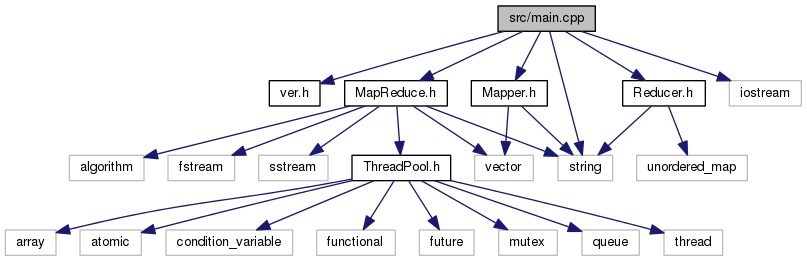
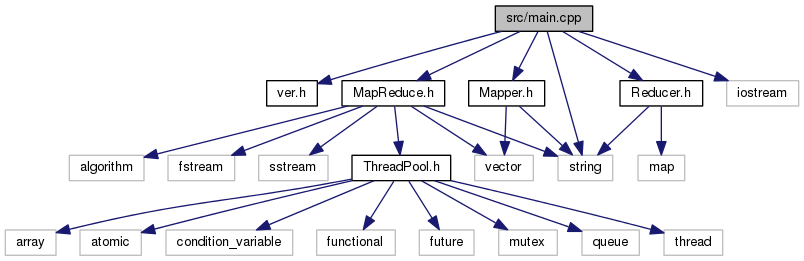
Deploy PetrLjutik/yamr to github.com/PetrLjutik/yamr.git:gh-pages

diff --git a/ThreadPool_8h_source.html b/ThreadPool_8h_source.html
@@ -144,47 +144,48 @@ var searchBox = new SearchBox("searchBox", "search",false,'Поиск');
 <div class="line"><a name="l00063"></a><span class="lineno">   63</span>&#160;        <span class="keywordflow">if</span>(it.joinable())</div>
 <div class="line"><a name="l00064"></a><span class="lineno">   64</span>&#160;          it.join();</div>
 <div class="line"><a name="l00065"></a><span class="lineno">   65</span>&#160;      }</div>
-<div class="line"><a name="l00066"></a><span class="lineno">   66</span>&#160;    }</div>
-<div class="line"><a name="l00067"></a><span class="lineno">   67</span>&#160;</div>
-<div class="line"><a name="l00076"></a><span class="lineno">   76</span>&#160;    <span class="keyword">template</span>&lt;<span class="keyword">typename</span> F, <span class="keyword">typename</span>...Args&gt;</div>
-<div class="line"><a name="l00077"></a><span class="lineno"><a class="line" href="classmr_1_1ThreadPool.html#a6efde29777ef95f35724076fd721c10a">   77</a></span>&#160;    <span class="keyword">auto</span> <a class="code" href="classmr_1_1ThreadPool.html#a6efde29777ef95f35724076fd721c10a">add_job</a>(F&amp;&amp; f, Args&amp;&amp;... args) -&gt; std::future&lt;decltype(f(args...))&gt; {</div>
-<div class="line"><a name="l00078"></a><span class="lineno">   78</span>&#160;      std::unique_lock&lt;std::mutex&gt; lock(job_mutex_);</div>
-<div class="line"><a name="l00079"></a><span class="lineno">   79</span>&#160;</div>
-<div class="line"><a name="l00080"></a><span class="lineno">   80</span>&#160;      std::function&lt;decltype(f(args...))()&gt; func = std::bind(std::forward&lt;F&gt;(f),</div>
-<div class="line"><a name="l00081"></a><span class="lineno">   81</span>&#160;                                                             std::forward&lt;Args&gt;(args)...);</div>
-<div class="line"><a name="l00082"></a><span class="lineno">   82</span>&#160;</div>
-<div class="line"><a name="l00083"></a><span class="lineno">   83</span>&#160;      <span class="keyword">auto</span> func_ptr = std::make_shared&lt;std::packaged_task&lt;decltype(f(args...))()&gt;&gt;(func);</div>
-<div class="line"><a name="l00084"></a><span class="lineno">   84</span>&#160;      std::function&lt;void()&gt; wrappered_func = [func_ptr]() { (*func_ptr)(); };</div>
-<div class="line"><a name="l00085"></a><span class="lineno">   85</span>&#160;      jobs_.push(wrappered_func);</div>
-<div class="line"><a name="l00086"></a><span class="lineno">   86</span>&#160;</div>
-<div class="line"><a name="l00087"></a><span class="lineno">   87</span>&#160;      job_avail_.notify_one();</div>
-<div class="line"><a name="l00088"></a><span class="lineno">   88</span>&#160;</div>
-<div class="line"><a name="l00089"></a><span class="lineno">   89</span>&#160;      <span class="keywordflow">return</span> func_ptr-&gt;get_future();</div>
-<div class="line"><a name="l00090"></a><span class="lineno">   90</span>&#160;    }</div>
-<div class="line"><a name="l00091"></a><span class="lineno">   91</span>&#160;</div>
-<div class="line"><a name="l00096"></a><span class="lineno"><a class="line" href="classmr_1_1ThreadPool.html#ac404580ac853b572438f754c7c6a58a9">   96</a></span>&#160;    <span class="keywordtype">unsigned</span> <span class="keywordtype">char</span> <a class="code" href="classmr_1_1ThreadPool.html#ac404580ac853b572438f754c7c6a58a9">get_job_id</a>() {</div>
-<div class="line"><a name="l00097"></a><span class="lineno">   97</span>&#160;      <span class="keywordflow">return</span> job_id_;</div>
-<div class="line"><a name="l00098"></a><span class="lineno">   98</span>&#160;    }</div>
-<div class="line"><a name="l00099"></a><span class="lineno">   99</span>&#160;</div>
-<div class="line"><a name="l00100"></a><span class="lineno">  100</span>&#160;  <span class="keyword">private</span>:</div>
-<div class="line"><a name="l00101"></a><span class="lineno">  101</span>&#160;</div>
-<div class="line"><a name="l00102"></a><span class="lineno">  102</span>&#160;    std::atomic_bool                  stop_{};</div>
-<div class="line"><a name="l00103"></a><span class="lineno">  103</span>&#160;    std::atomic_uchar                 job_id_{};</div>
-<div class="line"><a name="l00104"></a><span class="lineno">  104</span>&#160;    std::mutex                        job_mutex_{};</div>
-<div class="line"><a name="l00105"></a><span class="lineno">  105</span>&#160;    std::condition_variable           job_avail_{};</div>
-<div class="line"><a name="l00106"></a><span class="lineno">  106</span>&#160;    std::queue&lt;std::function&lt;void()&gt;&gt; jobs_{};</div>
-<div class="line"><a name="l00107"></a><span class="lineno">  107</span>&#160;    std::vector&lt;std::thread&gt;          threads_{};</div>
-<div class="line"><a name="l00108"></a><span class="lineno">  108</span>&#160;};</div>
-<div class="line"><a name="l00109"></a><span class="lineno">  109</span>&#160;</div>
-<div class="line"><a name="l00110"></a><span class="lineno">  110</span>&#160;} <span class="comment">// namespace mr.</span></div>
-<div class="line"><a name="l00111"></a><span class="lineno">  111</span>&#160;</div>
+<div class="line"><a name="l00066"></a><span class="lineno">   66</span>&#160;      threads_.clear();</div>
+<div class="line"><a name="l00067"></a><span class="lineno">   67</span>&#160;    }</div>
+<div class="line"><a name="l00068"></a><span class="lineno">   68</span>&#160;</div>
+<div class="line"><a name="l00077"></a><span class="lineno">   77</span>&#160;    <span class="keyword">template</span>&lt;<span class="keyword">typename</span> F, <span class="keyword">typename</span>...Args&gt;</div>
+<div class="line"><a name="l00078"></a><span class="lineno"><a class="line" href="classmr_1_1ThreadPool.html#a6efde29777ef95f35724076fd721c10a">   78</a></span>&#160;    <span class="keyword">auto</span> <a class="code" href="classmr_1_1ThreadPool.html#a6efde29777ef95f35724076fd721c10a">add_job</a>(F&amp;&amp; f, Args&amp;&amp;... args) -&gt; std::future&lt;decltype(f(args...))&gt; {</div>
+<div class="line"><a name="l00079"></a><span class="lineno">   79</span>&#160;      std::unique_lock&lt;std::mutex&gt; lock(job_mutex_);</div>
+<div class="line"><a name="l00080"></a><span class="lineno">   80</span>&#160;</div>
+<div class="line"><a name="l00081"></a><span class="lineno">   81</span>&#160;      std::function&lt;decltype(f(args...))()&gt; func = std::bind(std::forward&lt;F&gt;(f),</div>
+<div class="line"><a name="l00082"></a><span class="lineno">   82</span>&#160;                                                             std::forward&lt;Args&gt;(args)...);</div>
+<div class="line"><a name="l00083"></a><span class="lineno">   83</span>&#160;</div>
+<div class="line"><a name="l00084"></a><span class="lineno">   84</span>&#160;      <span class="keyword">auto</span> func_ptr = std::make_shared&lt;std::packaged_task&lt;decltype(f(args...))()&gt;&gt;(func);</div>
+<div class="line"><a name="l00085"></a><span class="lineno">   85</span>&#160;      std::function&lt;void()&gt; wrappered_func = [func_ptr]() { (*func_ptr)(); };</div>
+<div class="line"><a name="l00086"></a><span class="lineno">   86</span>&#160;      jobs_.push(wrappered_func);</div>
+<div class="line"><a name="l00087"></a><span class="lineno">   87</span>&#160;</div>
+<div class="line"><a name="l00088"></a><span class="lineno">   88</span>&#160;      job_avail_.notify_one();</div>
+<div class="line"><a name="l00089"></a><span class="lineno">   89</span>&#160;</div>
+<div class="line"><a name="l00090"></a><span class="lineno">   90</span>&#160;      <span class="keywordflow">return</span> func_ptr-&gt;get_future();</div>
+<div class="line"><a name="l00091"></a><span class="lineno">   91</span>&#160;    }</div>
+<div class="line"><a name="l00092"></a><span class="lineno">   92</span>&#160;</div>
+<div class="line"><a name="l00097"></a><span class="lineno"><a class="line" href="classmr_1_1ThreadPool.html#ac404580ac853b572438f754c7c6a58a9">   97</a></span>&#160;    <span class="keywordtype">unsigned</span> <span class="keywordtype">char</span> <a class="code" href="classmr_1_1ThreadPool.html#ac404580ac853b572438f754c7c6a58a9">get_job_id</a>() {</div>
+<div class="line"><a name="l00098"></a><span class="lineno">   98</span>&#160;      <span class="keywordflow">return</span> job_id_;</div>
+<div class="line"><a name="l00099"></a><span class="lineno">   99</span>&#160;    }</div>
+<div class="line"><a name="l00100"></a><span class="lineno">  100</span>&#160;</div>
+<div class="line"><a name="l00101"></a><span class="lineno">  101</span>&#160;  <span class="keyword">private</span>:</div>
+<div class="line"><a name="l00102"></a><span class="lineno">  102</span>&#160;</div>
+<div class="line"><a name="l00103"></a><span class="lineno">  103</span>&#160;    std::atomic_bool                  stop_{};</div>
+<div class="line"><a name="l00104"></a><span class="lineno">  104</span>&#160;    std::atomic_uchar                 job_id_{};</div>
+<div class="line"><a name="l00105"></a><span class="lineno">  105</span>&#160;    std::mutex                        job_mutex_{};</div>
+<div class="line"><a name="l00106"></a><span class="lineno">  106</span>&#160;    std::condition_variable           job_avail_{};</div>
+<div class="line"><a name="l00107"></a><span class="lineno">  107</span>&#160;    std::queue&lt;std::function&lt;void()&gt;&gt; jobs_{};</div>
+<div class="line"><a name="l00108"></a><span class="lineno">  108</span>&#160;    std::vector&lt;std::thread&gt;          threads_{};</div>
+<div class="line"><a name="l00109"></a><span class="lineno">  109</span>&#160;};</div>
+<div class="line"><a name="l00110"></a><span class="lineno">  110</span>&#160;</div>
+<div class="line"><a name="l00111"></a><span class="lineno">  111</span>&#160;} <span class="comment">// namespace mr.</span></div>
+<div class="line"><a name="l00112"></a><span class="lineno">  112</span>&#160;</div>
 <div class="ttc" id="classmr_1_1ThreadPool_html_a6fd1c2bd05ec4195fda59f0164e96eb4"><div class="ttname"><a href="classmr_1_1ThreadPool.html#a6fd1c2bd05ec4195fda59f0164e96eb4">mr::ThreadPool::~ThreadPool</a></div><div class="ttdeci">~ThreadPool()=default</div></div>
 <div class="ttc" id="classmr_1_1ThreadPool_html_a4d4ec3ed3bba94349861412587bca511"><div class="ttname"><a href="classmr_1_1ThreadPool.html#a4d4ec3ed3bba94349861412587bca511">mr::ThreadPool::stop</a></div><div class="ttdeci">void stop()</div><div class="ttdoc">Завершение работы всех потоков пула. </div><div class="ttdef"><b>Definition:</b> ThreadPool.h:56</div></div>
 <div class="ttc" id="classmr_1_1ThreadPool_html"><div class="ttname"><a href="classmr_1_1ThreadPool.html">mr::ThreadPool</a></div><div class="ttdoc">Шаблон пула потоков. </div><div class="ttdef"><b>Definition:</b> ThreadPool.h:17</div></div>
 <div class="ttc" id="classmr_1_1ThreadPool_html_a081def6dcf1be3130d8a079a5b608da2"><div class="ttname"><a href="classmr_1_1ThreadPool.html#a081def6dcf1be3130d8a079a5b608da2">mr::ThreadPool::operator=</a></div><div class="ttdeci">ThreadPool &amp; operator=(const ThreadPool &amp;)=delete</div></div>
-<div class="ttc" id="classmr_1_1ThreadPool_html_ac404580ac853b572438f754c7c6a58a9"><div class="ttname"><a href="classmr_1_1ThreadPool.html#ac404580ac853b572438f754c7c6a58a9">mr::ThreadPool::get_job_id</a></div><div class="ttdeci">unsigned char get_job_id()</div><div class="ttdoc">Дать id текущей выполняемой задачи. </div><div class="ttdef"><b>Definition:</b> ThreadPool.h:96</div></div>
+<div class="ttc" id="classmr_1_1ThreadPool_html_ac404580ac853b572438f754c7c6a58a9"><div class="ttname"><a href="classmr_1_1ThreadPool.html#ac404580ac853b572438f754c7c6a58a9">mr::ThreadPool::get_job_id</a></div><div class="ttdeci">unsigned char get_job_id()</div><div class="ttdoc">Дать id текущей выполняемой задачи. </div><div class="ttdef"><b>Definition:</b> ThreadPool.h:97</div></div>
 <div class="ttc" id="classmr_1_1ThreadPool_html_aa71ab0d7a2d09f33372c53f310885486"><div class="ttname"><a href="classmr_1_1ThreadPool.html#aa71ab0d7a2d09f33372c53f310885486">mr::ThreadPool::ThreadPool</a></div><div class="ttdeci">ThreadPool()=default</div></div>
-<div class="ttc" id="classmr_1_1ThreadPool_html_a6efde29777ef95f35724076fd721c10a"><div class="ttname"><a href="classmr_1_1ThreadPool.html#a6efde29777ef95f35724076fd721c10a">mr::ThreadPool::add_job</a></div><div class="ttdeci">auto add_job(F &amp;&amp;f, Args &amp;&amp;...args) -&gt; std::future&lt; decltype(f(args...))&gt;</div><div class="ttdoc">Добавление задачи для пула потоков. </div><div class="ttdef"><b>Definition:</b> ThreadPool.h:77</div></div>
+<div class="ttc" id="classmr_1_1ThreadPool_html_a6efde29777ef95f35724076fd721c10a"><div class="ttname"><a href="classmr_1_1ThreadPool.html#a6efde29777ef95f35724076fd721c10a">mr::ThreadPool::add_job</a></div><div class="ttdeci">auto add_job(F &amp;&amp;f, Args &amp;&amp;...args) -&gt; std::future&lt; decltype(f(args...))&gt;</div><div class="ttdoc">Добавление задачи для пула потоков. </div><div class="ttdef"><b>Definition:</b> ThreadPool.h:78</div></div>
 <div class="ttc" id="classmr_1_1ThreadPool_html_a725f4ac016836fc751ad94540a0fdb08"><div class="ttname"><a href="classmr_1_1ThreadPool.html#a725f4ac016836fc751ad94540a0fdb08">mr::ThreadPool::start</a></div><div class="ttdeci">void start(size_t threads_num)</div><div class="ttdoc">Запуск потоков пула. </div><div class="ttdef"><b>Definition:</b> ThreadPool.h:33</div></div>
 </div><!-- fragment --></div><!-- contents -->
 <!-- start footer part -->

diff --git a/MapReduce_8h_source.html b/MapReduce_8h_source.html
@@ -247,31 +247,34 @@ var searchBox = new SearchBox("searchBox", "search",false,'Поиск');
 <div class="line"><a name="l00184"></a><span class="lineno">  184</span>&#160;</div>
 <div class="line"><a name="l00185"></a><span class="lineno">  185</span>&#160;          <span class="keywordtype">size_t</span> result{};</div>
 <div class="line"><a name="l00186"></a><span class="lineno">  186</span>&#160;          <span class="keywordflow">for</span>(<span class="keyword">const</span> <span class="keyword">auto</span>&amp; str: it)</div>
-<div class="line"><a name="l00187"></a><span class="lineno">  187</span>&#160;            result = reducer(str);</div>
+<div class="line"><a name="l00187"></a><span class="lineno">  187</span>&#160;            result = reducer(str) + 1;</div>
 <div class="line"><a name="l00188"></a><span class="lineno">  188</span>&#160;</div>
-<div class="line"><a name="l00189"></a><span class="lineno">  189</span>&#160;          std::string filename = <span class="stringliteral">&quot;result_&quot;</span> + std::to_string(i) + <span class="stringliteral">&quot;.txt&quot;</span>;</div>
-<div class="line"><a name="l00190"></a><span class="lineno">  190</span>&#160;          std::ofstream ofs(filename);</div>
-<div class="line"><a name="l00191"></a><span class="lineno">  191</span>&#160;          <span class="keywordflow">if</span>(ofs.is_open()) {</div>
-<div class="line"><a name="l00192"></a><span class="lineno">  192</span>&#160;            ofs &lt;&lt; result + 1 &lt;&lt; std::endl;</div>
-<div class="line"><a name="l00193"></a><span class="lineno">  193</span>&#160;            ofs.close();</div>
-<div class="line"><a name="l00194"></a><span class="lineno">  194</span>&#160;          }</div>
-<div class="line"><a name="l00195"></a><span class="lineno">  195</span>&#160;        });</div>
-<div class="line"><a name="l00196"></a><span class="lineno">  196</span>&#160;        ++i;</div>
-<div class="line"><a name="l00197"></a><span class="lineno">  197</span>&#160;      }</div>
-<div class="line"><a name="l00198"></a><span class="lineno">  198</span>&#160;</div>
-<div class="line"><a name="l00199"></a><span class="lineno">  199</span>&#160;      <a class="code" href="classmr_1_1ThreadPool.html#a4d4ec3ed3bba94349861412587bca511">stop</a>(); <span class="comment">// Останов потоков свертки.</span></div>
-<div class="line"><a name="l00200"></a><span class="lineno">  200</span>&#160;    }</div>
+<div class="line"><a name="l00189"></a><span class="lineno">  189</span>&#160;          <span class="keywordflow">if</span>(reducer.check_keys())</div>
+<div class="line"><a name="l00190"></a><span class="lineno">  190</span>&#160;            result = 0;</div>
+<div class="line"><a name="l00191"></a><span class="lineno">  191</span>&#160;</div>
+<div class="line"><a name="l00192"></a><span class="lineno">  192</span>&#160;          std::string filename = <span class="stringliteral">&quot;result_&quot;</span> + std::to_string(i) + <span class="stringliteral">&quot;.txt&quot;</span>;</div>
+<div class="line"><a name="l00193"></a><span class="lineno">  193</span>&#160;          std::ofstream ofs(filename);</div>
+<div class="line"><a name="l00194"></a><span class="lineno">  194</span>&#160;          <span class="keywordflow">if</span>(ofs.is_open()) {</div>
+<div class="line"><a name="l00195"></a><span class="lineno">  195</span>&#160;            ofs &lt;&lt; result &lt;&lt; std::endl;</div>
+<div class="line"><a name="l00196"></a><span class="lineno">  196</span>&#160;            ofs.close();</div>
+<div class="line"><a name="l00197"></a><span class="lineno">  197</span>&#160;          }</div>
+<div class="line"><a name="l00198"></a><span class="lineno">  198</span>&#160;        });</div>
+<div class="line"><a name="l00199"></a><span class="lineno">  199</span>&#160;        ++i;</div>
+<div class="line"><a name="l00200"></a><span class="lineno">  200</span>&#160;      }</div>
 <div class="line"><a name="l00201"></a><span class="lineno">  201</span>&#160;</div>
-<div class="line"><a name="l00203"></a><span class="lineno">  203</span>&#160;    std::string filename_{};</div>
-<div class="line"><a name="l00205"></a><span class="lineno">  205</span>&#160;    std::vector&lt;str_vec_t&gt; mapped_;</div>
-<div class="line"><a name="l00207"></a><span class="lineno">  207</span>&#160;    std::vector&lt;std::unique_ptr&lt;std::mutex&gt;&gt; shuffle_guard_;</div>
-<div class="line"><a name="l00209"></a><span class="lineno">  209</span>&#160;    std::vector&lt;str_vec_t&gt; shuffled_;</div>
-<div class="line"><a name="l00211"></a><span class="lineno">  211</span>&#160;    std::vector&lt;section_t&gt; sections_;</div>
-<div class="line"><a name="l00213"></a><span class="lineno">  213</span>&#160;    <span class="keywordtype">size_t</span> map_num_{};</div>
-<div class="line"><a name="l00215"></a><span class="lineno">  215</span>&#160;    <span class="keywordtype">size_t</span> red_num_{};</div>
-<div class="line"><a name="l00216"></a><span class="lineno">  216</span>&#160;};</div>
-<div class="line"><a name="l00217"></a><span class="lineno">  217</span>&#160;</div>
-<div class="line"><a name="l00218"></a><span class="lineno">  218</span>&#160;} <span class="comment">// namespace mr.</span></div>
+<div class="line"><a name="l00202"></a><span class="lineno">  202</span>&#160;      <a class="code" href="classmr_1_1ThreadPool.html#a4d4ec3ed3bba94349861412587bca511">stop</a>(); <span class="comment">// Останов потоков свертки.</span></div>
+<div class="line"><a name="l00203"></a><span class="lineno">  203</span>&#160;    }</div>
+<div class="line"><a name="l00204"></a><span class="lineno">  204</span>&#160;</div>
+<div class="line"><a name="l00206"></a><span class="lineno">  206</span>&#160;    std::string filename_{};</div>
+<div class="line"><a name="l00208"></a><span class="lineno">  208</span>&#160;    std::vector&lt;str_vec_t&gt; mapped_;</div>
+<div class="line"><a name="l00210"></a><span class="lineno">  210</span>&#160;    std::vector&lt;std::unique_ptr&lt;std::mutex&gt;&gt; shuffle_guard_;</div>
+<div class="line"><a name="l00212"></a><span class="lineno">  212</span>&#160;    std::vector&lt;str_vec_t&gt; shuffled_;</div>
+<div class="line"><a name="l00214"></a><span class="lineno">  214</span>&#160;    std::vector&lt;section_t&gt; sections_;</div>
+<div class="line"><a name="l00216"></a><span class="lineno">  216</span>&#160;    <span class="keywordtype">size_t</span> map_num_{};</div>
+<div class="line"><a name="l00218"></a><span class="lineno">  218</span>&#160;    <span class="keywordtype">size_t</span> red_num_{};</div>
+<div class="line"><a name="l00219"></a><span class="lineno">  219</span>&#160;};</div>
+<div class="line"><a name="l00220"></a><span class="lineno">  220</span>&#160;</div>
+<div class="line"><a name="l00221"></a><span class="lineno">  221</span>&#160;} <span class="comment">// namespace mr.</span></div>
 <div class="ttc" id="ThreadPool_8h_html"><div class="ttname"><a href="ThreadPool_8h.html">ThreadPool.h</a></div></div>
 <div class="ttc" id="classmr_1_1ThreadPool_html_a4d4ec3ed3bba94349861412587bca511"><div class="ttname"><a href="classmr_1_1ThreadPool.html#a4d4ec3ed3bba94349861412587bca511">mr::ThreadPool::stop</a></div><div class="ttdeci">void stop()</div><div class="ttdoc">Завершение работы всех потоков пула. </div><div class="ttdef"><b>Definition:</b> ThreadPool.h:56</div></div>
 <div class="ttc" id="classmr_1_1MapReduce_html_a2c6fd3225091965830853479e2333fab"><div class="ttname"><a href="classmr_1_1MapReduce.html#a2c6fd3225091965830853479e2333fab">mr::MapReduce::~MapReduce</a></div><div class="ttdeci">~MapReduce()=default</div></div>
@@ -279,7 +282,7 @@ var searchBox = new SearchBox("searchBox", "search",false,'Поиск');
 <div class="ttc" id="classmr_1_1MapReduce_html_a7c7e0daf4ec07a6e2b4df8db743fa2f3"><div class="ttname"><a href="classmr_1_1MapReduce.html#a7c7e0daf4ec07a6e2b4df8db743fa2f3">mr::MapReduce::MapReduce</a></div><div class="ttdeci">MapReduce(const std::string &amp;filename, size_t map_num, size_t red_num)</div><div class="ttdoc">Конструктор. </div><div class="ttdef"><b>Definition:</b> MapReduce.h:33</div></div>
 <div class="ttc" id="classmr_1_1MapReduce_html"><div class="ttname"><a href="classmr_1_1MapReduce.html">mr::MapReduce</a></div><div class="ttdoc">Шаблон класса MapReduce. </div><div class="ttdef"><b>Definition:</b> MapReduce.h:19</div></div>
 <div class="ttc" id="classmr_1_1MapReduce_html_a09aaf57c3ce8949bdf29a9e0ede95b82"><div class="ttname"><a href="classmr_1_1MapReduce.html#a09aaf57c3ce8949bdf29a9e0ede95b82">mr::MapReduce::process</a></div><div class="ttdeci">void process()</div><div class="ttdoc">Процесс MapReduce. </div><div class="ttdef"><b>Definition:</b> MapReduce.h:43</div></div>
-<div class="ttc" id="classmr_1_1ThreadPool_html_a6efde29777ef95f35724076fd721c10a"><div class="ttname"><a href="classmr_1_1ThreadPool.html#a6efde29777ef95f35724076fd721c10a">mr::ThreadPool::add_job</a></div><div class="ttdeci">auto add_job(F &amp;&amp;f, Args &amp;&amp;...args) -&gt; std::future&lt; decltype(f(args...))&gt;</div><div class="ttdoc">Добавление задачи для пула потоков. </div><div class="ttdef"><b>Definition:</b> ThreadPool.h:77</div></div>
+<div class="ttc" id="classmr_1_1ThreadPool_html_a6efde29777ef95f35724076fd721c10a"><div class="ttname"><a href="classmr_1_1ThreadPool.html#a6efde29777ef95f35724076fd721c10a">mr::ThreadPool::add_job</a></div><div class="ttdeci">auto add_job(F &amp;&amp;f, Args &amp;&amp;...args) -&gt; std::future&lt; decltype(f(args...))&gt;</div><div class="ttdoc">Добавление задачи для пула потоков. </div><div class="ttdef"><b>Definition:</b> ThreadPool.h:78</div></div>
 <div class="ttc" id="classmr_1_1ThreadPool_html_a725f4ac016836fc751ad94540a0fdb08"><div class="ttname"><a href="classmr_1_1ThreadPool.html#a725f4ac016836fc751ad94540a0fdb08">mr::ThreadPool::start</a></div><div class="ttdeci">void start(size_t threads_num)</div><div class="ttdoc">Запуск потоков пула. </div><div class="ttdef"><b>Definition:</b> ThreadPool.h:33</div></div>
 </div><!-- fragment --></div><!-- contents -->
 <!-- start footer part -->

diff --git a/Reducer_8h_source.html b/Reducer_8h_source.html
@@ -92,7 +92,7 @@ var searchBox = new SearchBox("searchBox", "search",false,'Поиск');
 <a href="Reducer_8h.html">См. документацию.</a><div class="fragment"><div class="line"><a name="l00001"></a><span class="lineno">    1</span>&#160;<span class="preprocessor">#pragma once</span></div>
 <div class="line"><a name="l00002"></a><span class="lineno">    2</span>&#160;<span class="preprocessor"></span></div>
 <div class="line"><a name="l00003"></a><span class="lineno">    3</span>&#160;<span class="preprocessor">#include &lt;string&gt;</span></div>
-<div class="line"><a name="l00004"></a><span class="lineno">    4</span>&#160;<span class="preprocessor">#include &lt;unordered_map&gt;</span></div>
+<div class="line"><a name="l00004"></a><span class="lineno">    4</span>&#160;<span class="preprocessor">#include &lt;map&gt;</span></div>
 <div class="line"><a name="l00005"></a><span class="lineno">    5</span>&#160;</div>
 <div class="line"><a name="l00006"></a><span class="lineno">    6</span>&#160;<span class="keyword">namespace </span>mr {</div>
 <div class="line"><a name="l00007"></a><span class="lineno">    7</span>&#160;</div>
@@ -105,13 +105,30 @@ var searchBox = new SearchBox("searchBox", "search",false,'Поиск');
 <div class="line"><a name="l00017"></a><span class="lineno">   17</span>&#160;    <span class="keywordflow">return</span> max_pref_;</div>
 <div class="line"><a name="l00018"></a><span class="lineno">   18</span>&#160;  }</div>
 <div class="line"><a name="l00019"></a><span class="lineno">   19</span>&#160;</div>
-<div class="line"><a name="l00020"></a><span class="lineno">   20</span>&#160;<span class="keyword">private</span>:</div>
-<div class="line"><a name="l00022"></a><span class="lineno">   22</span>&#160;  <span class="keywordtype">size_t</span> max_pref_{};</div>
-<div class="line"><a name="l00024"></a><span class="lineno">   24</span>&#160;  std::unordered_map&lt;std::string, size_t&gt; freq_{};</div>
-<div class="line"><a name="l00025"></a><span class="lineno">   25</span>&#160;};</div>
-<div class="line"><a name="l00026"></a><span class="lineno">   26</span>&#160;</div>
-<div class="line"><a name="l00027"></a><span class="lineno">   27</span>&#160;} <span class="comment">// namespace mr.</span></div>
+<div class="line"><a name="l00020"></a><span class="lineno"><a class="line" href="structmr_1_1Reducer.html#a5d71f573ab0737e9e0d1111df5e685be">   20</a></span>&#160;  <span class="keywordtype">bool</span> <a class="code" href="structmr_1_1Reducer.html#a5d71f573ab0737e9e0d1111df5e685be">check_keys</a>() {</div>
+<div class="line"><a name="l00021"></a><span class="lineno">   21</span>&#160;    <span class="keywordflow">if</span>(freq_.cbegin() != freq_.cend()) {</div>
+<div class="line"><a name="l00022"></a><span class="lineno">   22</span>&#160;      <span class="keyword">auto</span> it = freq_.cbegin();</div>
+<div class="line"><a name="l00023"></a><span class="lineno">   23</span>&#160;      <span class="keyword">auto</span> key = it-&gt;first;</div>
+<div class="line"><a name="l00024"></a><span class="lineno">   24</span>&#160;      it++;</div>
+<div class="line"><a name="l00025"></a><span class="lineno">   25</span>&#160;</div>
+<div class="line"><a name="l00026"></a><span class="lineno">   26</span>&#160;      <span class="keywordflow">for</span>(; it != freq_.cend(); ++it) {</div>
+<div class="line"><a name="l00027"></a><span class="lineno">   27</span>&#160;        <span class="keywordflow">if</span>(key != it-&gt;first.substr(0, key.size()))</div>
+<div class="line"><a name="l00028"></a><span class="lineno">   28</span>&#160;          <span class="keywordflow">return</span> <span class="keyword">false</span>;</div>
+<div class="line"><a name="l00029"></a><span class="lineno">   29</span>&#160;        key = it-&gt;first;</div>
+<div class="line"><a name="l00030"></a><span class="lineno">   30</span>&#160;      }</div>
+<div class="line"><a name="l00031"></a><span class="lineno">   31</span>&#160;      <span class="keywordflow">return</span> <span class="keyword">true</span>;</div>
+<div class="line"><a name="l00032"></a><span class="lineno">   32</span>&#160;    }</div>
+<div class="line"><a name="l00033"></a><span class="lineno">   33</span>&#160;    <span class="keywordflow">return</span> <span class="keyword">false</span>;</div>
+<div class="line"><a name="l00034"></a><span class="lineno">   34</span>&#160;  }</div>
+<div class="line"><a name="l00035"></a><span class="lineno">   35</span>&#160;</div>
+<div class="line"><a name="l00036"></a><span class="lineno">   36</span>&#160;<span class="keyword">private</span>:</div>
+<div class="line"><a name="l00038"></a><span class="lineno">   38</span>&#160;  <span class="keywordtype">size_t</span> max_pref_{};</div>
+<div class="line"><a name="l00040"></a><span class="lineno">   40</span>&#160;  std::map&lt;std::string, size_t&gt; freq_{};</div>
+<div class="line"><a name="l00041"></a><span class="lineno">   41</span>&#160;};</div>
+<div class="line"><a name="l00042"></a><span class="lineno">   42</span>&#160;</div>
+<div class="line"><a name="l00043"></a><span class="lineno">   43</span>&#160;} <span class="comment">// namespace mr.</span></div>
 <div class="ttc" id="structmr_1_1Reducer_html_aff44d04c9a6e845b785e543982a97553"><div class="ttname"><a href="structmr_1_1Reducer.html#aff44d04c9a6e845b785e543982a97553">mr::Reducer::operator()</a></div><div class="ttdeci">auto operator()(const std::string &amp;str)</div><div class="ttdef"><b>Definition:</b> Reducer.h:13</div></div>
+<div class="ttc" id="structmr_1_1Reducer_html_a5d71f573ab0737e9e0d1111df5e685be"><div class="ttname"><a href="structmr_1_1Reducer.html#a5d71f573ab0737e9e0d1111df5e685be">mr::Reducer::check_keys</a></div><div class="ttdeci">bool check_keys()</div><div class="ttdef"><b>Definition:</b> Reducer.h:20</div></div>
 <div class="ttc" id="structmr_1_1Reducer_html"><div class="ttname"><a href="structmr_1_1Reducer.html">mr::Reducer</a></div><div class="ttdoc">Функтор операции свертки. </div><div class="ttdef"><b>Definition:</b> Reducer.h:11</div></div>
 </div><!-- fragment --></div><!-- contents -->
 <!-- start footer part -->

diff --git a/structmr_1_1Reducer.html b/structmr_1_1Reducer.html
@@ -104,10 +104,35 @@ var searchBox = new SearchBox("searchBox", "search",false,'Поиск');
 Открытые члены</h2></td></tr>
 <tr class="memitem:aff44d04c9a6e845b785e543982a97553"><td class="memItemLeft" align="right" valign="top">auto&#160;</td><td class="memItemRight" valign="bottom"><a class="el" href="structmr_1_1Reducer.html#aff44d04c9a6e845b785e543982a97553">operator()</a> (const std::string &amp;str)</td></tr>
 <tr class="separator:aff44d04c9a6e845b785e543982a97553"><td class="memSeparator" colspan="2">&#160;</td></tr>
+<tr class="memitem:a5d71f573ab0737e9e0d1111df5e685be"><td class="memItemLeft" align="right" valign="top">bool&#160;</td><td class="memItemRight" valign="bottom"><a class="el" href="structmr_1_1Reducer.html#a5d71f573ab0737e9e0d1111df5e685be">check_keys</a> ()</td></tr>
+<tr class="separator:a5d71f573ab0737e9e0d1111df5e685be"><td class="memSeparator" colspan="2">&#160;</td></tr>
 </table>
 <a name="details" id="details"></a><h2 class="groupheader">Подробное описание</h2>
 <div class="textblock"><p>Функтор операции свертки. </p>
 </div><h2 class="groupheader">Методы</h2>
+<a class="anchor" id="a5d71f573ab0737e9e0d1111df5e685be"></a>
+<div class="memitem">
+<div class="memproto">
+<table class="mlabels">
+  <tr>
+  <td class="mlabels-left">
+      <table class="memname">
+        <tr>
+          <td class="memname">bool mr::Reducer::check_keys </td>
+          <td>(</td>
+          <td class="paramname"></td><td>)</td>
+          <td></td>
+        </tr>
+      </table>
+  </td>
+  <td class="mlabels-right">
+<span class="mlabels"><span class="mlabel">inline</span></span>  </td>
+  </tr>
+</table>
+</div><div class="memdoc">
+
+</div>
+</div>
 <a class="anchor" id="aff44d04c9a6e845b785e543982a97553"></a>
 <div class="memitem">
 <div class="memproto">

diff --git a/version_8h.html b/version_8h.html
@@ -107,7 +107,7 @@ var searchBox = new SearchBox("searchBox", "search",false,'Поиск');
 <tr class="separator:abecd2198575b690d25a741857f8390d1"><td class="memSeparator" colspan="2">&#160;</td></tr>
 <tr class="memitem:a43e23009192a3e216fefec17750d8673"><td class="memItemLeft" align="right" valign="top">#define&#160;</td><td class="memItemRight" valign="bottom"><a class="el" href="version_8h.html#a43e23009192a3e216fefec17750d8673">PROJECT_VERSION_MINOR</a>&#160;&#160;&#160;1</td></tr>
 <tr class="separator:a43e23009192a3e216fefec17750d8673"><td class="memSeparator" colspan="2">&#160;</td></tr>
-<tr class="memitem:a4a5fc96a4bdd7d68ed99ccce9ca2e77e"><td class="memItemLeft" align="right" valign="top">#define&#160;</td><td class="memItemRight" valign="bottom"><a class="el" href="version_8h.html#a4a5fc96a4bdd7d68ed99ccce9ca2e77e">PROJECT_VERSION_PATCH</a>&#160;&#160;&#160;1</td></tr>
+<tr class="memitem:a4a5fc96a4bdd7d68ed99ccce9ca2e77e"><td class="memItemLeft" align="right" valign="top">#define&#160;</td><td class="memItemRight" valign="bottom"><a class="el" href="version_8h.html#a4a5fc96a4bdd7d68ed99ccce9ca2e77e">PROJECT_VERSION_PATCH</a>&#160;&#160;&#160;2</td></tr>
 <tr class="separator:a4a5fc96a4bdd7d68ed99ccce9ca2e77e"><td class="memSeparator" colspan="2">&#160;</td></tr>
 </table>
 <h2 class="groupheader">Макросы</h2>
@@ -140,7 +140,7 @@ var searchBox = new SearchBox("searchBox", "search",false,'Поиск');
 <div class="memproto">
       <table class="memname">
         <tr>
-          <td class="memname">#define PROJECT_VERSION_PATCH&#160;&#160;&#160;1</td>
+          <td class="memname">#define PROJECT_VERSION_PATCH&#160;&#160;&#160;2</td>
         </tr>
       </table>
 </div><div class="memdoc">

diff --git a/main_8cpp.html b/main_8cpp.html
@@ -102,7 +102,7 @@ var searchBox = new SearchBox("searchBox", "search",false,'Поиск');
 <div class="dyncontent">
 <div class="center"><img src="main_8cpp__incl.png" border="0" usemap="#src_2main_8cpp" alt=""/></div>
 <map name="src_2main_8cpp" id="src_2main_8cpp">
-<area shape="rect" id="node2" href="ver_8h.html" title="ver.h" alt="" coords="269,80,320,107"/><area shape="rect" id="node3" href="MapReduce_8h.html" title="MapReduce.h" alt="" coords="345,80,447,107"/><area shape="rect" id="node18" href="Mapper_8h.html" title="Mapper.h" alt="" coords="471,80,547,107"/><area shape="rect" id="node19" href="Reducer_8h.html" title="Reducer.h" alt="" coords="623,80,704,107"/><area shape="rect" id="node4" href="ThreadPool_8h.html" title="ThreadPool.h" alt="" coords="352,155,451,181"/></map>
+<area shape="rect" id="node2" href="ver_8h.html" title="ver.h" alt="" coords="267,80,317,107"/><area shape="rect" id="node3" href="MapReduce_8h.html" title="MapReduce.h" alt="" coords="342,80,444,107"/><area shape="rect" id="node18" href="Mapper_8h.html" title="Mapper.h" alt="" coords="469,80,544,107"/><area shape="rect" id="node19" href="Reducer_8h.html" title="Reducer.h" alt="" coords="620,80,701,107"/><area shape="rect" id="node4" href="ThreadPool_8h.html" title="ThreadPool.h" alt="" coords="352,155,451,181"/></map>
 </div>
 </div><table class="memberdecls">
 <tr class="heading"><td colspan="2"><h2 class="groupheader"><a name="func-members"></a>

diff --git a/search/all_8.js b/search/all_8.js
@@ -1,9 +1,6 @@
 var searchData=
 [
-  ['ver_2ecpp',['ver.cpp',['../ver_8cpp.html',1,'']]],
-  ['ver_2eh',['ver.h',['../ver_8h.html',1,'']]],
-  ['ver_5fmajor',['ver_major',['../ver_8h.html#aba4335b56d75cb94866c39a4378c00b8',1,'ver_major():&#160;ver.cpp'],['../ver_8cpp.html#aba4335b56d75cb94866c39a4378c00b8',1,'ver_major():&#160;ver.cpp']]],
-  ['ver_5fminor',['ver_minor',['../ver_8h.html#ad800fb2a67179bf696cbc5a6e1f297cb',1,'ver_minor():&#160;ver.cpp'],['../ver_8cpp.html#ad800fb2a67179bf696cbc5a6e1f297cb',1,'ver_minor():&#160;ver.cpp']]],
-  ['ver_5fpatch',['ver_patch',['../ver_8h.html#af5a202cd1e165e806e2ef6a5c921e964',1,'ver_patch():&#160;ver.cpp'],['../ver_8cpp.html#af5a202cd1e165e806e2ef6a5c921e964',1,'ver_patch():&#160;ver.cpp']]],
-  ['version_2eh',['version.h',['../version_8h.html',1,'']]]
+  ['threadpool',['ThreadPool',['../classmr_1_1ThreadPool.html',1,'mr']]],
+  ['threadpool',['ThreadPool',['../classmr_1_1ThreadPool.html#aa71ab0d7a2d09f33372c53f310885486',1,'mr::ThreadPool::ThreadPool()=default'],['../classmr_1_1ThreadPool.html#aa58d7e7eccb53fbc5a39274a0a5c495f',1,'mr::ThreadPool::ThreadPool(const ThreadPool &amp;)=delete'],['../classmr_1_1ThreadPool.html#a3894d85614c447b610f31abeeeaa7553',1,'mr::ThreadPool::ThreadPool(ThreadPool &amp;&amp;)=delete']]],
+  ['threadpool_2eh',['ThreadPool.h',['../ThreadPool_8h.html',1,'']]]
 ];

diff --git a/version_8h_source.html b/version_8h_source.html
@@ -93,7 +93,7 @@ var searchBox = new SearchBox("searchBox", "search",false,'Поиск');
 <div class="line"><a name="l00002"></a><span class="lineno">    2</span>&#160;<span class="preprocessor"></span></div>
 <div class="line"><a name="l00003"></a><span class="lineno"><a class="line" href="version_8h.html#abecd2198575b690d25a741857f8390d1">    3</a></span>&#160;<span class="preprocessor">#define PROJECT_VERSION_MAJOR 1</span></div>
 <div class="line"><a name="l00004"></a><span class="lineno"><a class="line" href="version_8h.html#a43e23009192a3e216fefec17750d8673">    4</a></span>&#160;<span class="preprocessor"></span><span class="preprocessor">#define PROJECT_VERSION_MINOR 1</span></div>
-<div class="line"><a name="l00005"></a><span class="lineno"><a class="line" href="version_8h.html#a4a5fc96a4bdd7d68ed99ccce9ca2e77e">    5</a></span>&#160;<span class="preprocessor"></span><span class="preprocessor">#define PROJECT_VERSION_PATCH 1</span></div>
+<div class="line"><a name="l00005"></a><span class="lineno"><a class="line" href="version_8h.html#a4a5fc96a4bdd7d68ed99ccce9ca2e77e">    5</a></span>&#160;<span class="preprocessor"></span><span class="preprocessor">#define PROJECT_VERSION_PATCH 2</span></div>
 </div><!-- fragment --></div><!-- contents -->
 <!-- start footer part -->
 <hr class="footer"/><address class="footer"><small>

diff --git a/structmr_1_1Reducer-members.html b/structmr_1_1Reducer-members.html
@@ -94,7 +94,8 @@ var searchBox = new SearchBox("searchBox", "search",false,'Поиск');
 
 <p>Полный список членов класса <a class="el" href="structmr_1_1Reducer.html">mr::Reducer</a>, включая наследуемые из базового класса</p>
 <table class="directory">
-  <tr class="even"><td class="entry"><a class="el" href="structmr_1_1Reducer.html#aff44d04c9a6e845b785e543982a97553">operator()</a>(const std::string &amp;str)</td><td class="entry"><a class="el" href="structmr_1_1Reducer.html">mr::Reducer</a></td><td class="entry"><span class="mlabel">inline</span></td></tr>
+  <tr class="even"><td class="entry"><a class="el" href="structmr_1_1Reducer.html#a5d71f573ab0737e9e0d1111df5e685be">check_keys</a>()</td><td class="entry"><a class="el" href="structmr_1_1Reducer.html">mr::Reducer</a></td><td class="entry"><span class="mlabel">inline</span></td></tr>
+  <tr><td class="entry"><a class="el" href="structmr_1_1Reducer.html#aff44d04c9a6e845b785e543982a97553">operator()</a>(const std::string &amp;str)</td><td class="entry"><a class="el" href="structmr_1_1Reducer.html">mr::Reducer</a></td><td class="entry"><span class="mlabel">inline</span></td></tr>
 </table></div><!-- contents -->
 <!-- start footer part -->
 <hr class="footer"/><address class="footer"><small>

diff --git a/search/all_3.js b/search/all_3.js
@@ -1,5 +1,11 @@
 var searchData=
 [
-  ['operator_28_29',['operator()',['../classmr_1_1Mapper.html#af025583b5930c5a3c36a8dd5828c6050',1,'mr::Mapper::operator()()'],['../structmr_1_1Reducer.html#aff44d04c9a6e845b785e543982a97553',1,'mr::Reducer::operator()()']]],
-  ['operator_3d',['operator=',['../classmr_1_1ThreadPool.html#a081def6dcf1be3130d8a079a5b608da2',1,'mr::ThreadPool::operator=(const ThreadPool &amp;)=delete'],['../classmr_1_1ThreadPool.html#a06d9a31b94c0440d2968dd1eca49703e',1,'mr::ThreadPool::operator=(ThreadPool &amp;&amp;)=delete']]]
+  ['main',['main',['../main_8cpp.html#abf9e6b7e6f15df4b525a2e7705ba3089',1,'main.cpp']]],
+  ['main_2ecpp',['main.cpp',['../main_8cpp.html',1,'']]],
+  ['mapper',['Mapper',['../classmr_1_1Mapper.html',1,'mr']]],
+  ['mapper_2eh',['Mapper.h',['../Mapper_8h.html',1,'']]],
+  ['mapreduce',['MapReduce',['../classmr_1_1MapReduce.html',1,'mr']]],
+  ['mapreduce',['MapReduce',['../classmr_1_1MapReduce.html#a7c7e0daf4ec07a6e2b4df8db743fa2f3',1,'mr::MapReduce']]],
+  ['mapreduce_2eh',['MapReduce.h',['../MapReduce_8h.html',1,'']]],
+  ['mr',['mr',['../namespacemr.html',1,'']]]
 ];

diff --git a/search/functions_9.html b/search/functions_9.html
@@ -1,0 +1,26 @@
+<!DOCTYPE html PUBLIC "-//W3C//DTD XHTML 1.0 Transitional//EN" "http://www.w3.org/TR/xhtml1/DTD/xhtml1-transitional.dtd">
+<html><head><title></title>
+<meta http-equiv="Content-Type" content="text/xhtml;charset=UTF-8"/>
+<meta name="generator" content="Doxygen 1.8.6">
+<link rel="stylesheet" type="text/css" href="search.css"/>
+<script type="text/javascript" src="functions_9.js"></script>
+<script type="text/javascript" src="search.js"></script>
+</head>
+<body class="SRPage">
+<div id="SRIndex">
+<div class="SRStatus" id="Loading">Загрузка...</div>
+<div id="SRResults"></div>
+<script type="text/javascript"><!--
+createResults();
+--></script>
+<div class="SRStatus" id="Searching">Поиск...</div>
+<div class="SRStatus" id="NoMatches">Не найдено</div>
+<script type="text/javascript"><!--
+document.getElementById("Loading").style.display="none";
+document.getElementById("NoMatches").style.display="none";
+var searchResults = new SearchResults("searchResults");
+searchResults.Search();
+--></script>
+</div>
+</body>
+</html>

diff --git a/search/all_a.html b/search/all_a.html
@@ -1,0 +1,26 @@
+<!DOCTYPE html PUBLIC "-//W3C//DTD XHTML 1.0 Transitional//EN" "http://www.w3.org/TR/xhtml1/DTD/xhtml1-transitional.dtd">
+<html><head><title></title>
+<meta http-equiv="Content-Type" content="text/xhtml;charset=UTF-8"/>
+<meta name="generator" content="Doxygen 1.8.6">
+<link rel="stylesheet" type="text/css" href="search.css"/>
+<script type="text/javascript" src="all_a.js"></script>
+<script type="text/javascript" src="search.js"></script>
+</head>
+<body class="SRPage">
+<div id="SRIndex">
+<div class="SRStatus" id="Loading">Загрузка...</div>
+<div id="SRResults"></div>
+<script type="text/javascript"><!--
+createResults();
+--></script>
+<div class="SRStatus" id="Searching">Поиск...</div>
+<div class="SRStatus" id="NoMatches">Не найдено</div>
+<script type="text/javascript"><!--
+document.getElementById("Loading").style.display="none";
+document.getElementById("NoMatches").style.display="none";
+var searchResults = new SearchResults("searchResults");
+searchResults.Search();
+--></script>
+</div>
+</body>
+</html>
